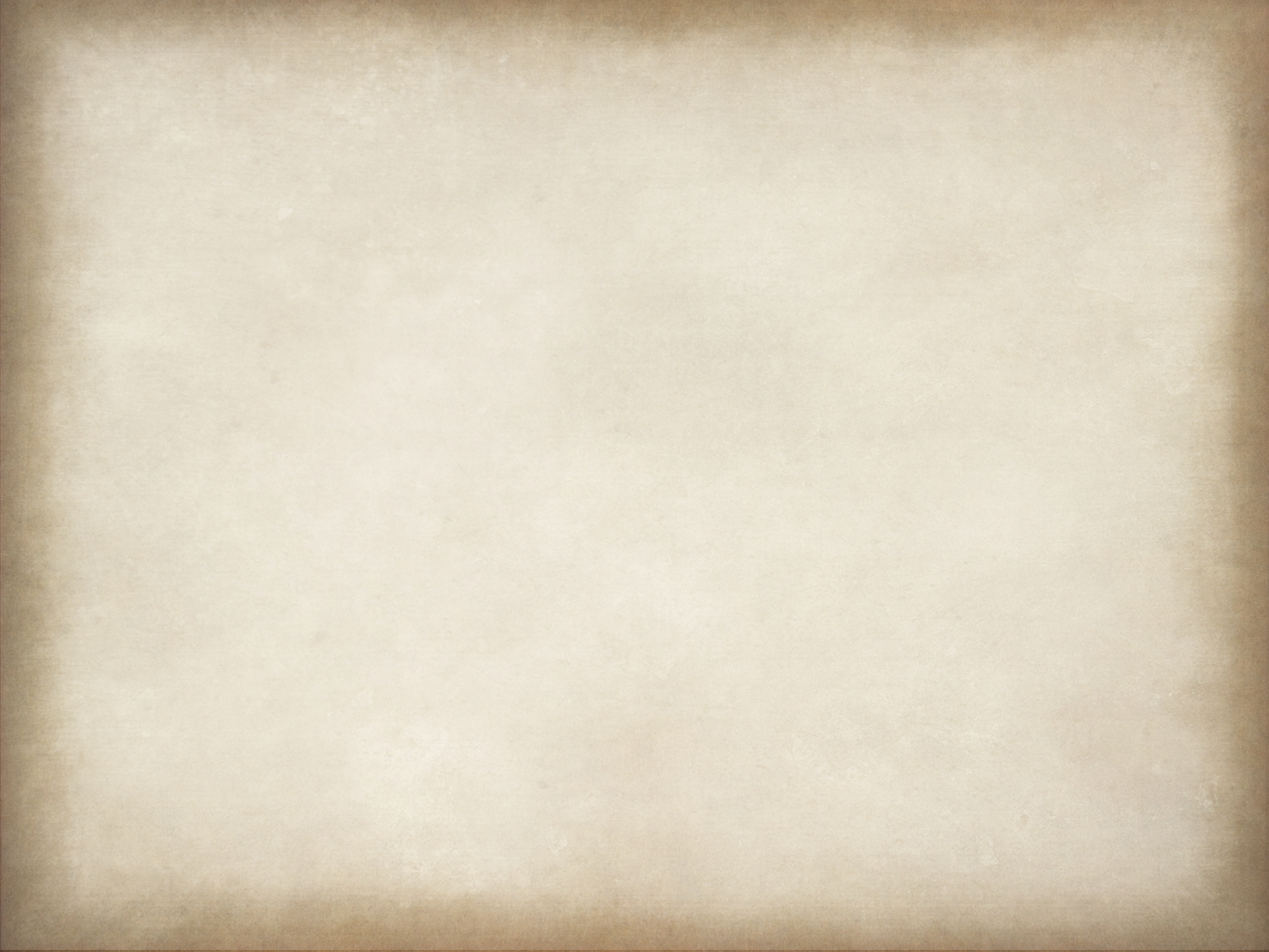
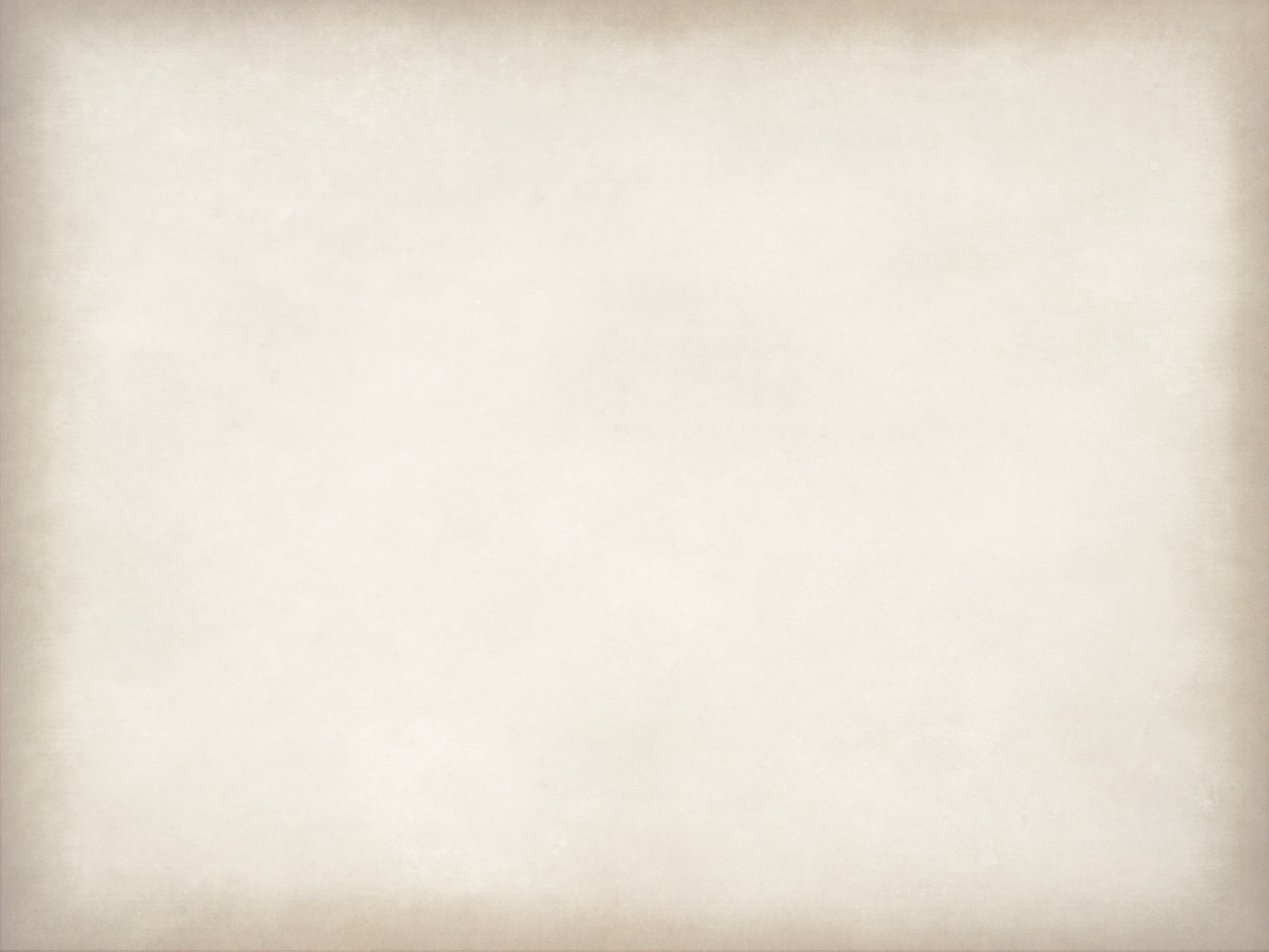
messed with border images

diff --git a/Suduko-Aidan_Draper/sketch.js b/Suduko-Aidan_Draper/sketch.js
@@ -84,17 +84,16 @@ function obtainColumnArrays(grid) {
 }
 
 function displayGrid(grid) {
-  let tempOuterArray = [];
+  for (let y = 0; y<grid.length/3; y++) {
+    for (let x = 0; x<grid.length/3; x++) {
+      image(borderPaper, x*cellSideLength*3, y*cellSideLength*3, cellSideLength*3, cellSideLength*3);
+    }
+  }
   for (let y = 0; y<grid.length; y++) {
     for (let x = 0; x<grid.length; x++) {
       image(paper, x*cellSideLength, y*cellSideLength, cellSideLength, cellSideLength);
       textSize(cellSideLength/4);
       text(grid[y][x], x*cellSideLength + cellSideLength/2, y*cellSideLength +cellSideLength/2);
-    }
-  }
-  for (let y = 0; y<grid.length/3; y++) {
-    for (let x = 0; x<grid.length/3; x++) {
-      image(borderPaper, x*cellSideLength*3, y*cellSideLength*3, cellSideLength*3, cellSideLength*3);
     }
   }
 }
